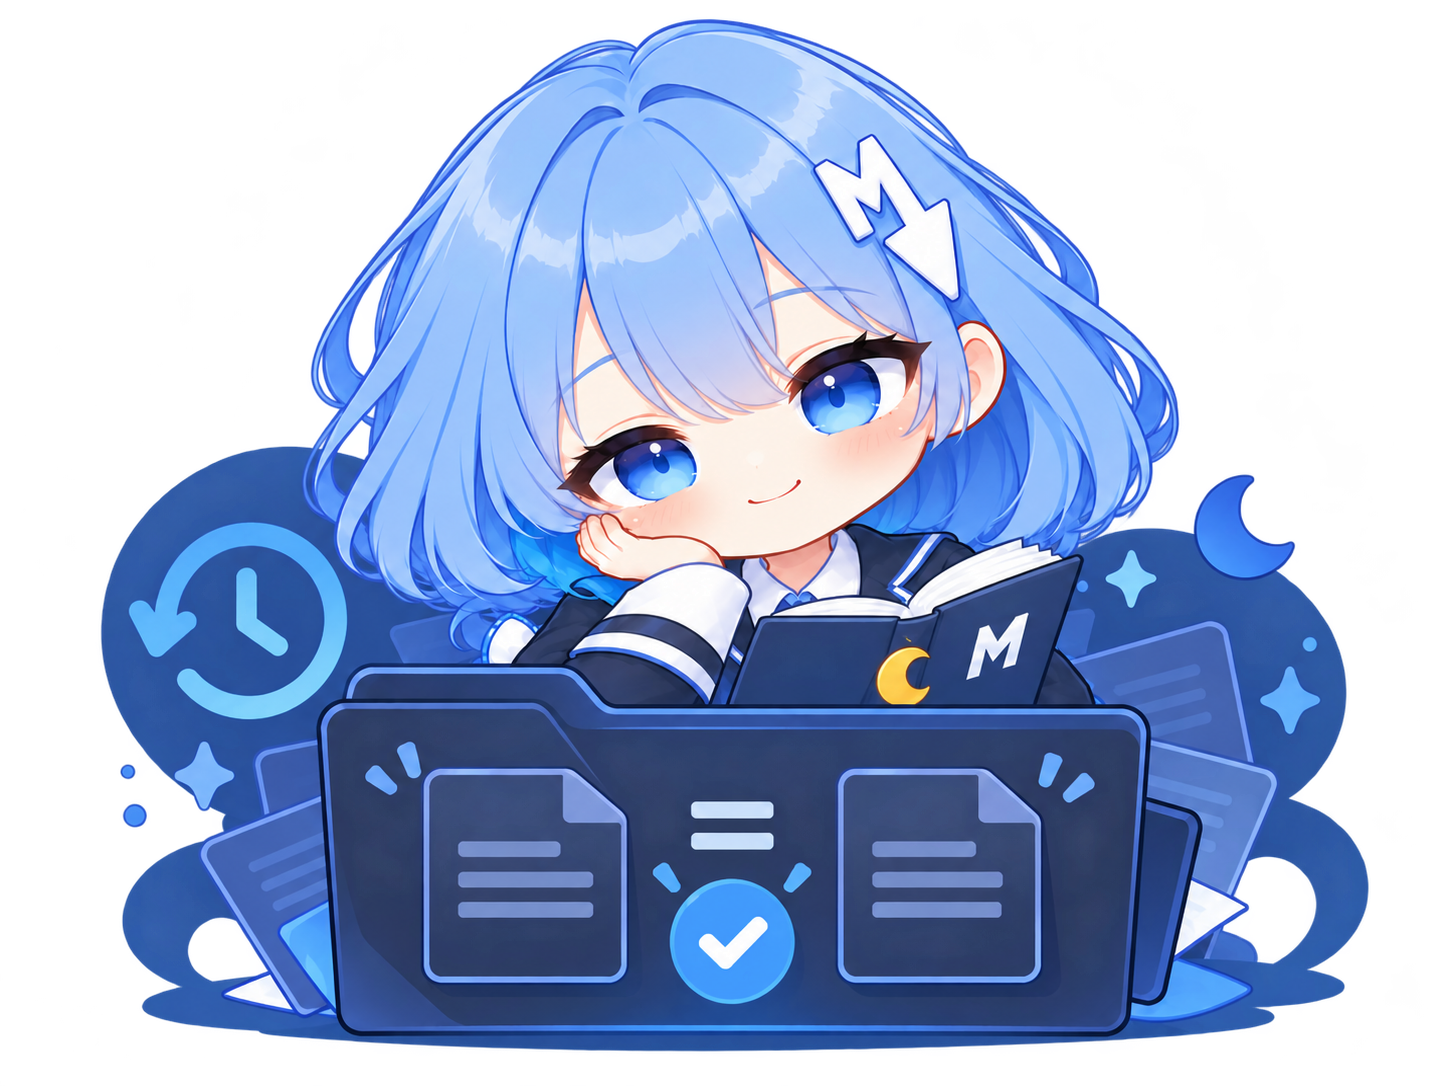
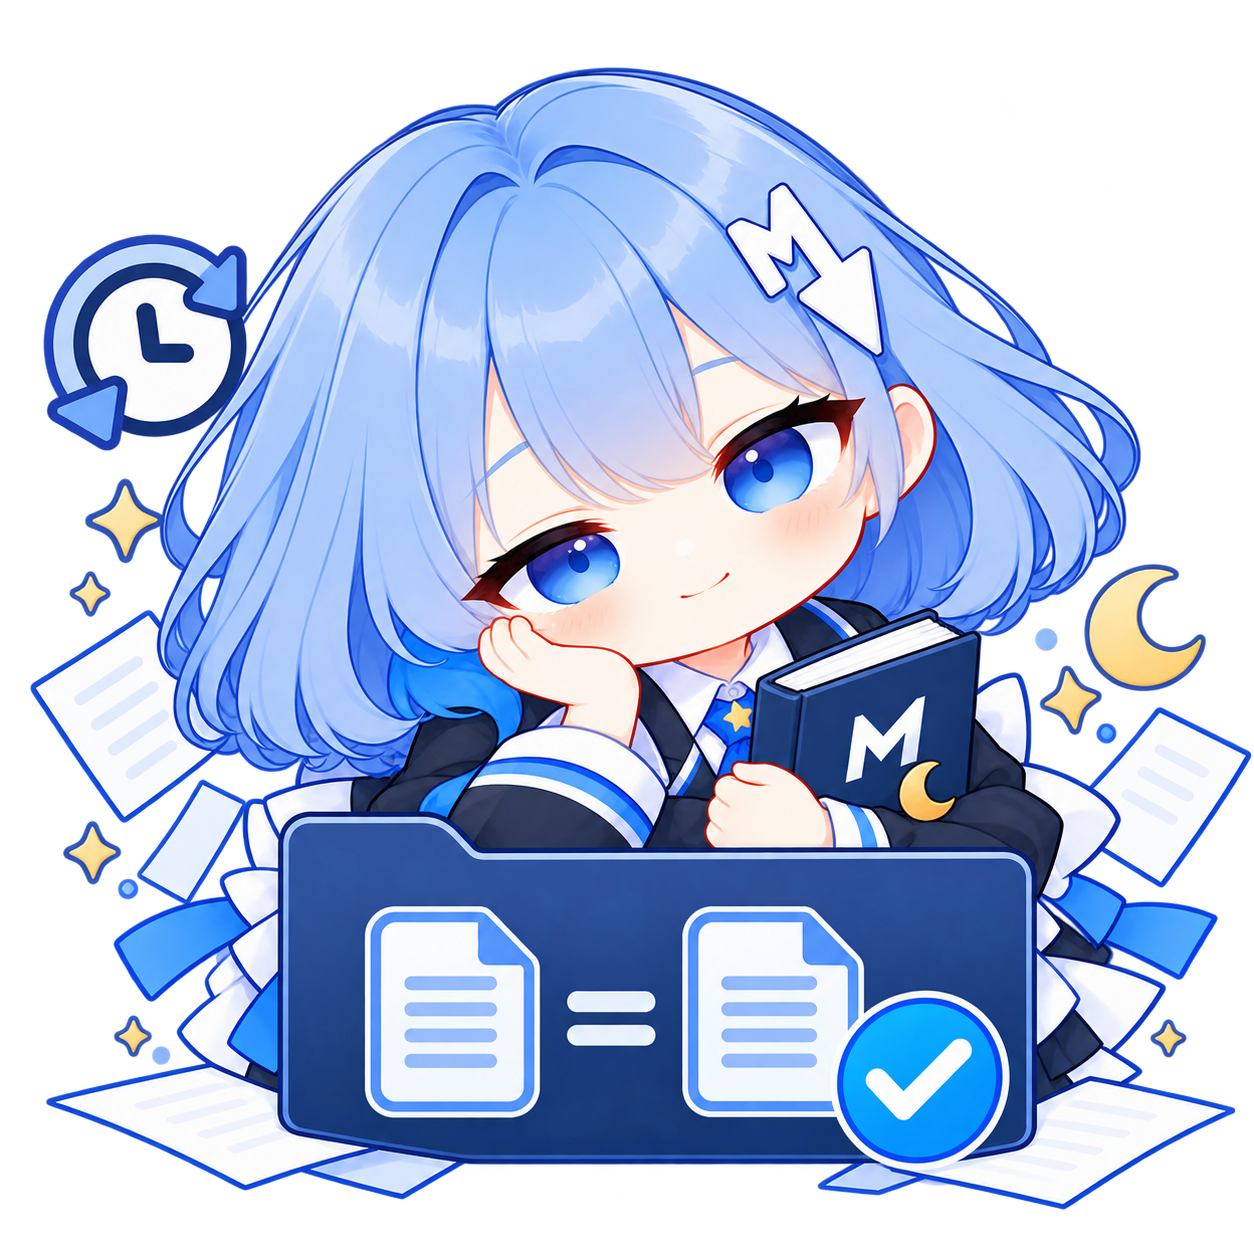
fix(moki): 历史空态立绘整张显示，修掉被拉扁的问题
* 素材已换成 1254×1254 的正方形双态图，而画布仍写死 4:3 + background-size: 100% 100%，于是被横向拉宽 33%，人像明显变扁
* 现在整张显示：比例沿用 1:1，背景改用 contain 铺满 （contain 保证素材比例万一与画布不符时也只会留一点空白，不会拉变形）
* 同时去掉这两个素材的重心偏移：它们是完整构图的成品，直接整张居中显示即可，不需要按不透明像素重心微调
* 实测渲染 263×263（比例 1.000），缩放比约 4.8 倍

diff --git a/src/components/moki/MokiSprite.jsx b/src/components/moki/MokiSprite.jsx
@@ -38,15 +38,11 @@ const ATLASES = {
     },
   },
   // 本地历史为空时的立绘：Moki 趴在「文档 = 文档 ✓」的窗口上，旁边是回环箭头与时钟，
-  // 语义正好是「这里没有任何改动」。浅色/深色各一张独立素材（1448×1086，4:3），
-  // 偏移同样按实测重心换算：浅色 X=49.68%/Y=55.61%，深色 X=50.06%/Y=56.72%，纵向只补一半。
+  // 语义正好是「这里没有任何改动」。浅色/深色各一张独立素材（1254×1254 正方形）。
+  // 这两张图本身就是完整构图的成品，直接整张显示即可，不做重心微调。
   history: {
     single: true,
     src: { light: historyLight, dark: historyDark },
-    offset: {
-      light: { left: '0.32%', top: '-2.81%' },
-      dark: { left: '-0.06%', top: '-3.36%' },
-    },
   },
 };
 
@@ -60,7 +56,8 @@ export default function MokiSprite({ theme: explicitTheme, art = 'bust' }) {
     <span aria-hidden="true" className={`moki-sprite moki-sprite--${mode} moki-sprite--${atlasKey}`}>
       {/* 两帧各占一层：切换主题时靠交叉淡入淡出完成"换装"，硬切会显得生硬（见 moki.scss）。 */}
       {['light', 'dark'].map((frame) => {
-        const offset = atlas.offset[frame] || atlas.offset.light;
+        // 没给偏移的素材（构图本身就是成品）就整张居中显示，不做微调。
+        const offset = atlas.offset?.[frame] || atlas.offset?.light || { left: '0%', top: '0%' };
         return (
           <span
             key={frame}

diff --git a/src/components/moki/moki.scss b/src/components/moki/moki.scss
@@ -20,14 +20,14 @@
   }
 
   /*
-   * 历史空态用的是两张独立素材（1448×1086，4:3），不是双格图集：
-   * 比例按素材给，背景改成铺满整张，不再横向取半格。
+   * 历史空态是两张独立素材（1254×1254 正方形），整张显示即可：
+   * 比例沿用基类的 1:1，背景不再横向取半格。
+   * 用 contain 而非 100% 100%：素材比例万一与画布不一致，也只会留一点空白，
+   * 不会把人像拉变形（此前写死 4:3 而素材是正方形，就被横向拉宽了 33%）。
    */
   &--history {
-    aspect-ratio: 4 / 3;
-
     > .moki-sprite__art {
-      background-size: 100% 100%;
+      background-size: contain;
     }
   }
   &__art {
